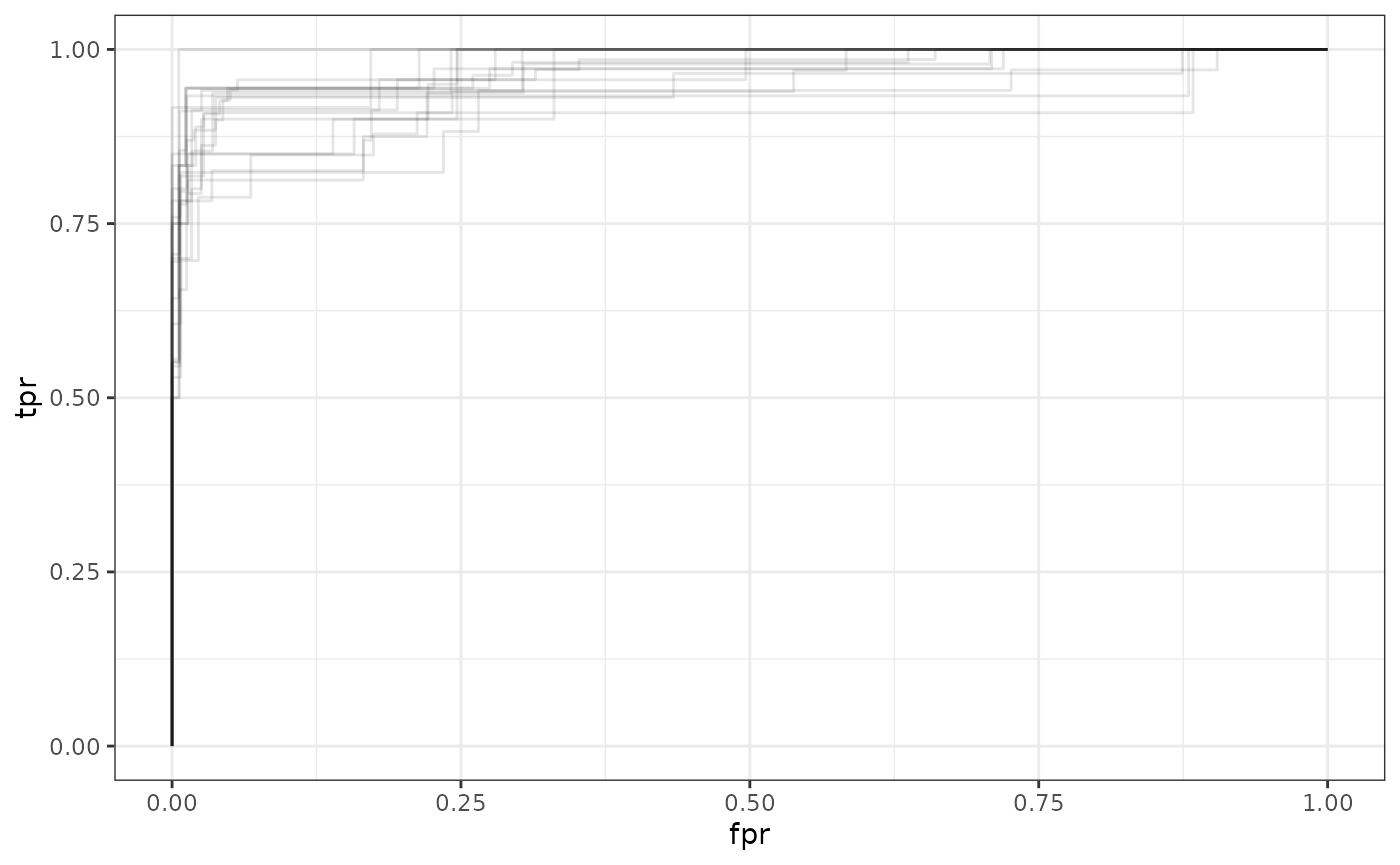
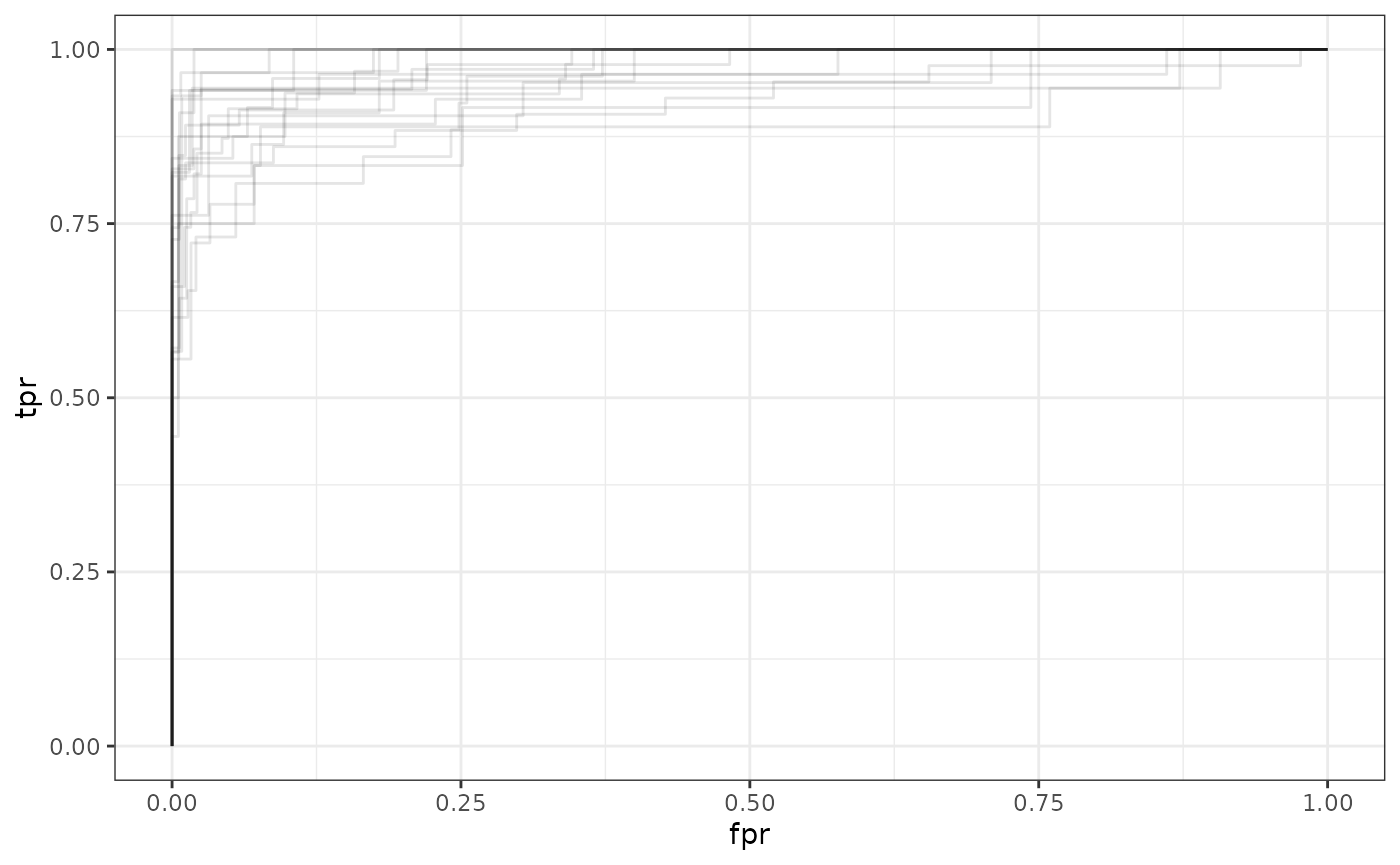
Deploying to gh-pages from @ valeriehan6/scoreLR@10c37a83264a94805f1f0ae05c567113ef9ac55b 🚀

Changed region(s): [[0.1229, 0.0312, 0.8907, 0.437]]

diff --git a/articles/scoreLR.html b/articles/scoreLR.html
@@ -359,45 +359,45 @@ all four methods. We display this below.</p>
 <span><span class="fu"><a href="https://rdrr.io/r/utils/str.html" class="external-link">str</a></span><span class="op">(</span><span class="va">results</span><span class="op">)</span></span>
 <span><span class="co">#&gt; List of 4</span></span>
 <span><span class="co">#&gt;  $ IgnoreDependence    :List of 5</span></span>
-<span><span class="co">#&gt;   ..$ KM_SLR    :'data.frame':   12 obs. of  1 variable:</span></span>
-<span><span class="co">#&gt;   .. ..$ SLR: num [1:12] 1.37e+250 8.06e+05 1.77e+88 Inf Inf ...</span></span>
-<span><span class="co">#&gt;   ..$ KNM_SLR   :'data.frame':   132 obs. of  1 variable:</span></span>
-<span><span class="co">#&gt;   .. ..$ SLR: num [1:132] 0.001655 0.009271 0.000567 0.627902 0.004798 ...</span></span>
-<span><span class="co">#&gt;   ..$ threshold : num 0.0191</span></span>
+<span><span class="co">#&gt;   ..$ KM_SLR    :'data.frame':   40 obs. of  1 variable:</span></span>
+<span><span class="co">#&gt;   .. ..$ SLR: num [1:40] 3.95e+10 1.06e+84 2.95e+218 4.13e+62 1.35e+25 ...</span></span>
+<span><span class="co">#&gt;   ..$ KNM_SLR   :'data.frame':   171 obs. of  1 variable:</span></span>
+<span><span class="co">#&gt;   .. ..$ SLR: num [1:171] 1.27e-05 3.96e-04 3.03e-03 1.58e-03 1.10e-02 ...</span></span>
+<span><span class="co">#&gt;   ..$ threshold : num 0.0178</span></span>
 <span><span class="co">#&gt;   ..$ new_SLR   : logi NA</span></span>
-<span><span class="co">#&gt;   ..$ ROC_values:'data.frame':   132 obs. of  2 variables:</span></span>
-<span><span class="co">#&gt;   .. ..$ tpr: num [1:132] 0 0.1 0.2 0.3 0.4 0.5 0.6 0.7 0.8 0.9 ...</span></span>
-<span><span class="co">#&gt;   .. ..$ fpr: num [1:132] 0 0 0 0 0 0 0 0 0 0 ...</span></span>
+<span><span class="co">#&gt;   ..$ ROC_values:'data.frame':   190 obs. of  2 variables:</span></span>
+<span><span class="co">#&gt;   .. ..$ tpr: num [1:190] 0 0.0323 0.0645 0.0968 0.129 ...</span></span>
+<span><span class="co">#&gt;   .. ..$ fpr: num [1:190] 0 0 0 0 0 0 0 0 0 0 ...</span></span>
 <span><span class="co">#&gt;  $ StrictIndependentSet:List of 5</span></span>
-<span><span class="co">#&gt;   ..$ KM_SLR    :'data.frame':   12 obs. of  1 variable:</span></span>
-<span><span class="co">#&gt;   .. ..$ SLR: num [1:12] Inf Inf 1.34e+94 Inf Inf ...</span></span>
-<span><span class="co">#&gt;   ..$ KNM_SLR   :'data.frame':   132 obs. of  1 variable:</span></span>
-<span><span class="co">#&gt;   .. ..$ SLR: num [1:132] 1.93e-03 2.43e-02 9.05e-05 1.60e+16 4.99e-03 ...</span></span>
-<span><span class="co">#&gt;   ..$ threshold : num 0.017</span></span>
+<span><span class="co">#&gt;   ..$ KM_SLR    :'data.frame':   40 obs. of  1 variable:</span></span>
+<span><span class="co">#&gt;   .. ..$ SLR: num [1:40] 1.78e+144 1.79e+219 4.80e+90 3.92e+12 1.57e+13 ...</span></span>
+<span><span class="co">#&gt;   ..$ KNM_SLR   :'data.frame':   171 obs. of  1 variable:</span></span>
+<span><span class="co">#&gt;   .. ..$ SLR: num [1:171] 1.66e-05 1.27e-02 2.77e-03 1.68e-02 3.08e-02 ...</span></span>
+<span><span class="co">#&gt;   ..$ threshold : num 0.03</span></span>
 <span><span class="co">#&gt;   ..$ new_SLR   : logi NA</span></span>
-<span><span class="co">#&gt;   ..$ ROC_values:'data.frame':   126 obs. of  2 variables:</span></span>
-<span><span class="co">#&gt;   .. ..$ tpr: num [1:126] 0 0.25 0.5 0.5 0.5 0.5 0.5 0.5 0.75 0.75 ...</span></span>
-<span><span class="co">#&gt;   .. ..$ fpr: num [1:126] 0 0 0 0.00758 0.01515 ...</span></span>
+<span><span class="co">#&gt;   ..$ ROC_values:'data.frame':   192 obs. of  2 variables:</span></span>
+<span><span class="co">#&gt;   .. ..$ tpr: num [1:192] 0 0.0303 0.0606 0.0909 0.1212 ...</span></span>
+<span><span class="co">#&gt;   .. ..$ fpr: num [1:192] 0 0 0 0 0 0 0 0 0 0 ...</span></span>
 <span><span class="co">#&gt;  $ AverageFeatures     :List of 5</span></span>
-<span><span class="co">#&gt;   ..$ KM_SLR    :'data.frame':   2 obs. of  1 variable:</span></span>
-<span><span class="co">#&gt;   .. ..$ SLR: num [1:2] 5.81e+171 1.98e+17</span></span>
+<span><span class="co">#&gt;   ..$ KM_SLR    :'data.frame':   8 obs. of  1 variable:</span></span>
+<span><span class="co">#&gt;   .. ..$ SLR: num [1:8] 1.97e+293 5.33e+128 2.09e+75 5.48e+35 Inf ...</span></span>
 <span><span class="co">#&gt;   ..$ KNM_SLR   :'data.frame':   14 obs. of  1 variable:</span></span>
-<span><span class="co">#&gt;   .. ..$ SLR: num [1:14] 0.005397 0.000027 0.023276 0.019755 0.07007 ...</span></span>
-<span><span class="co">#&gt;   ..$ threshold : num 0.319</span></span>
+<span><span class="co">#&gt;   .. ..$ SLR: num [1:14] 0.000345 0.00689 0.051503 0.024313 0.020529 ...</span></span>
+<span><span class="co">#&gt;   ..$ threshold : num 0.29</span></span>
 <span><span class="co">#&gt;   ..$ new_SLR   : logi NA</span></span>
-<span><span class="co">#&gt;   ..$ ROC_values:'data.frame':   17 obs. of  2 variables:</span></span>
-<span><span class="co">#&gt;   .. ..$ tpr: num [1:17] 0 0.5 1 1 1 1 1 1 1 1 ...</span></span>
-<span><span class="co">#&gt;   .. ..$ fpr: num [1:17] 0 0 0 0.0714 0.1429 ...</span></span>
+<span><span class="co">#&gt;   ..$ ROC_values:'data.frame':   21 obs. of  2 variables:</span></span>
+<span><span class="co">#&gt;   .. ..$ tpr: num [1:21] 0 0.167 0.333 0.5 0.667 ...</span></span>
+<span><span class="co">#&gt;   .. ..$ fpr: num [1:21] 0 0 0 0 0 ...</span></span>
 <span><span class="co">#&gt;  $ MultipleKDE         :List of 5</span></span>
-<span><span class="co">#&gt;   ..$ KM_SLR    :'data.frame':   12 obs. of  1 variable:</span></span>
-<span><span class="co">#&gt;   .. ..$ SLR: num [1:12] 1.24e+60 5.73e+01 2.91e+18 4.50e+247 1.16e+127 ...</span></span>
-<span><span class="co">#&gt;   ..$ KNM_SLR   :'data.frame':   132 obs. of  1 variable:</span></span>
-<span><span class="co">#&gt;   .. ..$ SLR: num [1:132] 3.47e-03 2.52e-02 8.16e-04 7.42e+10 1.32e-02 ...</span></span>
-<span><span class="co">#&gt;   ..$ threshold : num 0.0197</span></span>
+<span><span class="co">#&gt;   ..$ KM_SLR    :'data.frame':   40 obs. of  1 variable:</span></span>
+<span><span class="co">#&gt;   .. ..$ SLR: num [1:40] 2.23e+01 4.64e+08 1.51e+41 1.29e+09 8.46e+05 ...</span></span>
+<span><span class="co">#&gt;   ..$ KNM_SLR   :'data.frame':   171 obs. of  1 variable:</span></span>
+<span><span class="co">#&gt;   .. ..$ SLR: num [1:171] 3.13e-05 2.12e-03 2.26e-03 3.75e-03 2.70e-02 ...</span></span>
+<span><span class="co">#&gt;   ..$ threshold : num 0.0359</span></span>
 <span><span class="co">#&gt;   ..$ new_SLR   : logi NA</span></span>
-<span><span class="co">#&gt;   ..$ ROC_values:'data.frame':   134 obs. of  2 variables:</span></span>
-<span><span class="co">#&gt;   .. ..$ tpr: num [1:134] 0 0.0833 0.1667 0.25 0.3333 ...</span></span>
-<span><span class="co">#&gt;   .. ..$ fpr: num [1:134] 0 0 0 0 0 ...</span></span></code></pre></div>
+<span><span class="co">#&gt;   ..$ ROC_values:'data.frame':   199 obs. of  2 variables:</span></span>
+<span><span class="co">#&gt;   .. ..$ tpr: num [1:199] 0 0.025 0.05 0.075 0.1 0.125 0.15 0.175 0.2 0.225 ...</span></span>
+<span><span class="co">#&gt;   .. ..$ fpr: num [1:199] 0 0 0 0 0 0 0 0 0 0 ...</span></span></code></pre></div>
 <p>The output gives you a list. Each element corresponds to the output
 of the corresponding method function.</p>
 <p>You can also choose to run the method itself after splitting the data
@@ -459,9 +459,9 @@ data is provided.</p>
 <span><span class="va">res</span> <span class="op">&lt;-</span> <span class="fu"><a href="../reference/strict_indep_set.html">strict_indep_set</a></span><span class="op">(</span><span class="va">KM_train</span>, <span class="va">KM_test</span>, <span class="va">KNM_train</span>, <span class="va">KNM_test</span>, <span class="va">unknown</span><span class="op">)</span></span>
 <span></span>
 <span><span class="va">res</span><span class="op">$</span><span class="va">new_SLR</span></span>
-<span><span class="co">#&gt;            SLR</span></span>
-<span><span class="co">#&gt; 1 4.027998e-03</span></span>
-<span><span class="co">#&gt; 2 2.099004e+52</span></span></code></pre></div>
+<span><span class="co">#&gt;          SLR</span></span>
+<span><span class="co">#&gt; 1 0.02501108</span></span>
+<span><span class="co">#&gt; 2        Inf</span></span></code></pre></div>
 </div>
 </div>
 <div class="section level2">
